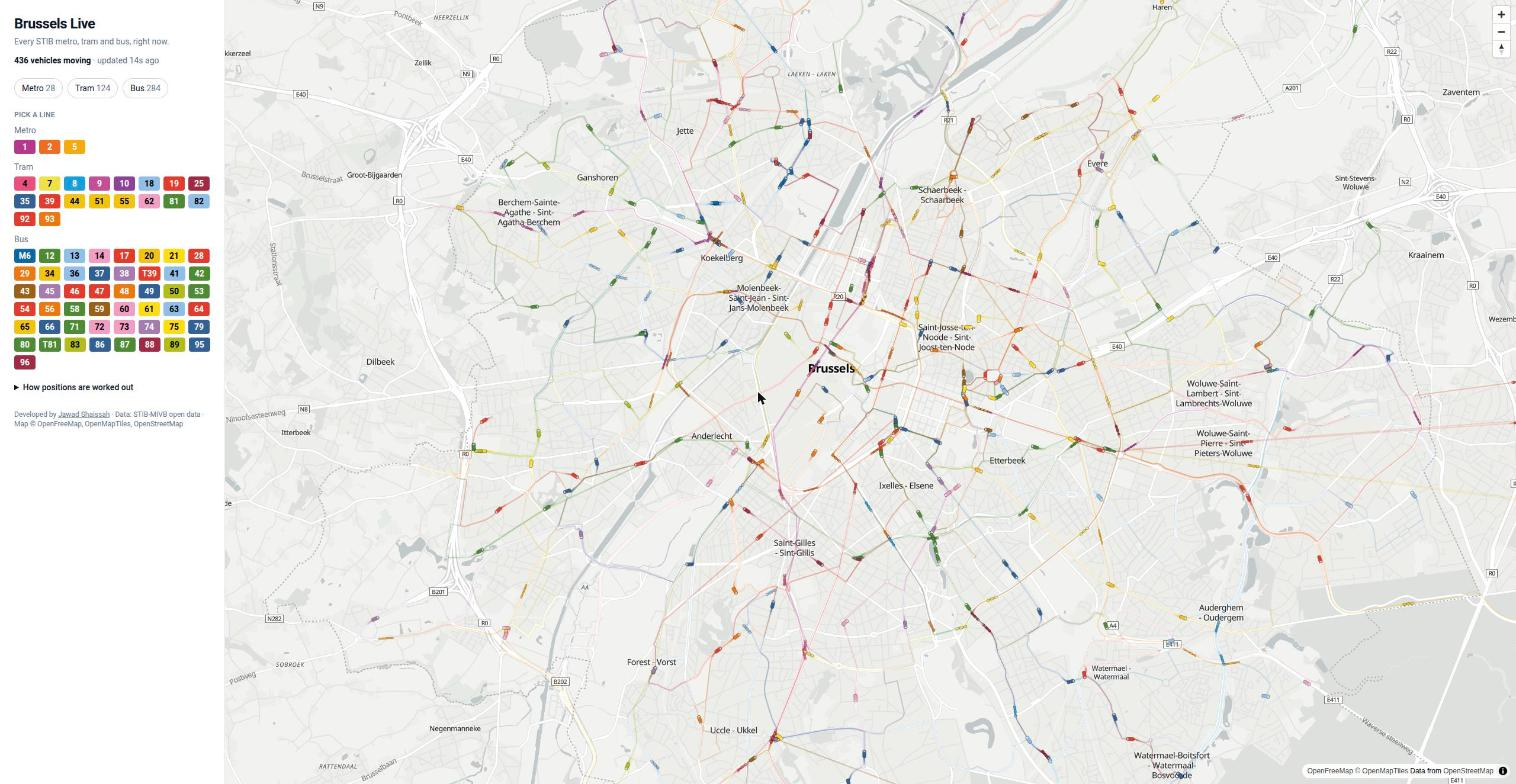
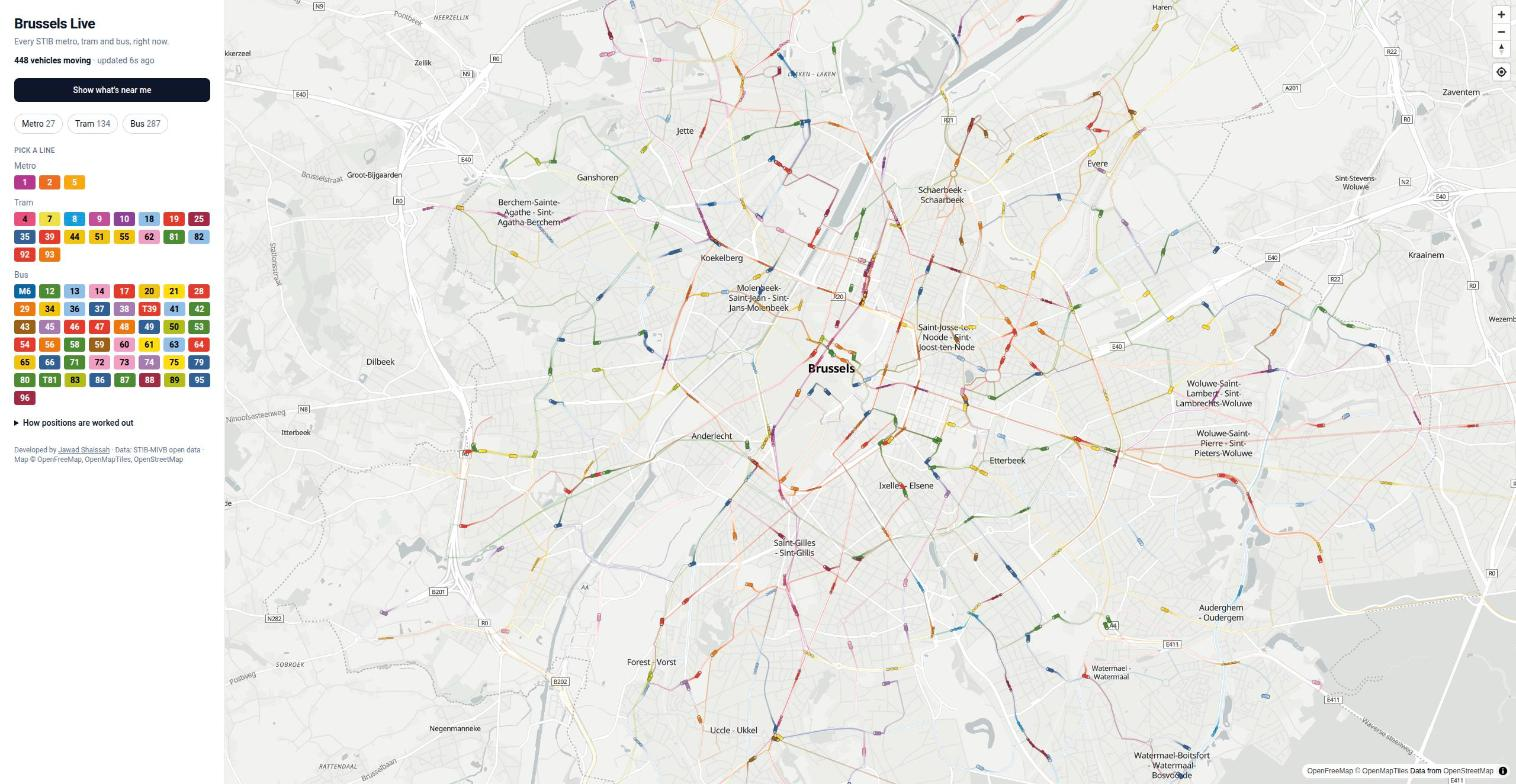
README for the portfolio: try-it link, stack, fresh screenshots; MIT licence

diff --git a/README.md b/README.md
@@ -2,9 +2,22 @@
 
 Every STIB metro, tram and bus in Brussels on one map, moving in real time, in STIB's own line colours. Plus what's arriving at the stops near you.
 
-**Live:** https://huntsama.github.io/brussels-live/
+**Try it:** https://huntsama.github.io/brussels-live/ (works on a phone; "Near me" needs location permission)
 
-![All vehicles](docs/map.jpg)
+![All vehicles in Brussels](docs/map.jpg)
+
+| Zoomed in: vehicles at real length, tilted map | Near me: what leaves from the closest stops |
+|---|---|
+| ![Vehicles close up](docs/vehicles.jpg) | ![Near me](docs/near.jpg) |
+
+## Stack
+
+- **Data:** STIB-MIVB open data (live vehicle positions and arrival predictions, stop lists, GTFS timetable), all free and keyless. No backend: the browser reads the feeds directly.
+- **Build:** Python 3 (standard library) joins stops, routes and timetable into `network.json`; runs weekly in GitHub Actions.
+- **Page:** MapLibre GL JS + OpenFreeMap tiles, deck.gl (WebGL) for vehicles and trails, Tailwind CSS, Geolocation API, web app manifest.
+- **Estimation:** `site/estimator.js`, plain JavaScript, with an offline evaluation loop in Node (`tools/`).
+- **Quality:** pytest, `node --test`, GitHub Actions, GitHub Pages.
+- Sister project: [Brussels Lakehouse](https://github.com/Huntsama/brussels-lakehouse), which records the same feeds every 5 minutes on Azure and feeds this map its "usually late" numbers.
 
 ## The problem: STIB has no GPS feed
 
@@ -51,8 +64,6 @@ The page reads STIB's feed straight from the browser (it allows cross-origin req
 - **Tap a row** to keep only that line. "Show all of Brussels" brings the full map back.
 - **Install as an app:** a web app manifest lets you add it to your phone's home screen, where it opens full screen like an app.
 
-![Near me](docs/near.jpg)
-
 ## Drawing
 
 - **MapLibre GL JS** draws the base map (OpenFreeMap vector tiles, no key needed).
@@ -62,8 +73,6 @@ The page reads STIB's feed straight from the browser (it allows cross-origin req
   - the whole network as faint lines.
 - **Sizes:** zoomed in, vehicles are drawn at roughly real length (metro 92 m, tram 44 m, bus 18 m). Zoomed out, they keep a minimum size so they stay visible.
 - **Tilt:** right-drag (or two fingers) tilts the map.
-
-![Close up, tilted, one tram picked](docs/line.jpg)
 
 ## How good is the estimate? Measured, not guessed
 
@@ -106,4 +115,6 @@ cd site && python3 -m http.server
 - About 12 routes currently run on roadworks diversions that the timetable shape doesn't match. Those are drawn as straight lines between stops.
 - `M6`, `T39` and `T81` are replacement buses for metro 6 and trams 39 and 81, so they're shown as buses.
 
-Developed by [Jawad Shaissah](https://www.jwds.me). Data: STIB-MIVB open data. Map © OpenStreetMap contributors.
+## Licence
+
+MIT. Developed by [Jawad Shaissah](https://www.jwds.me). Data: STIB-MIVB open data. Map: OpenFreeMap, OpenMapTiles, © OpenStreetMap contributors.
